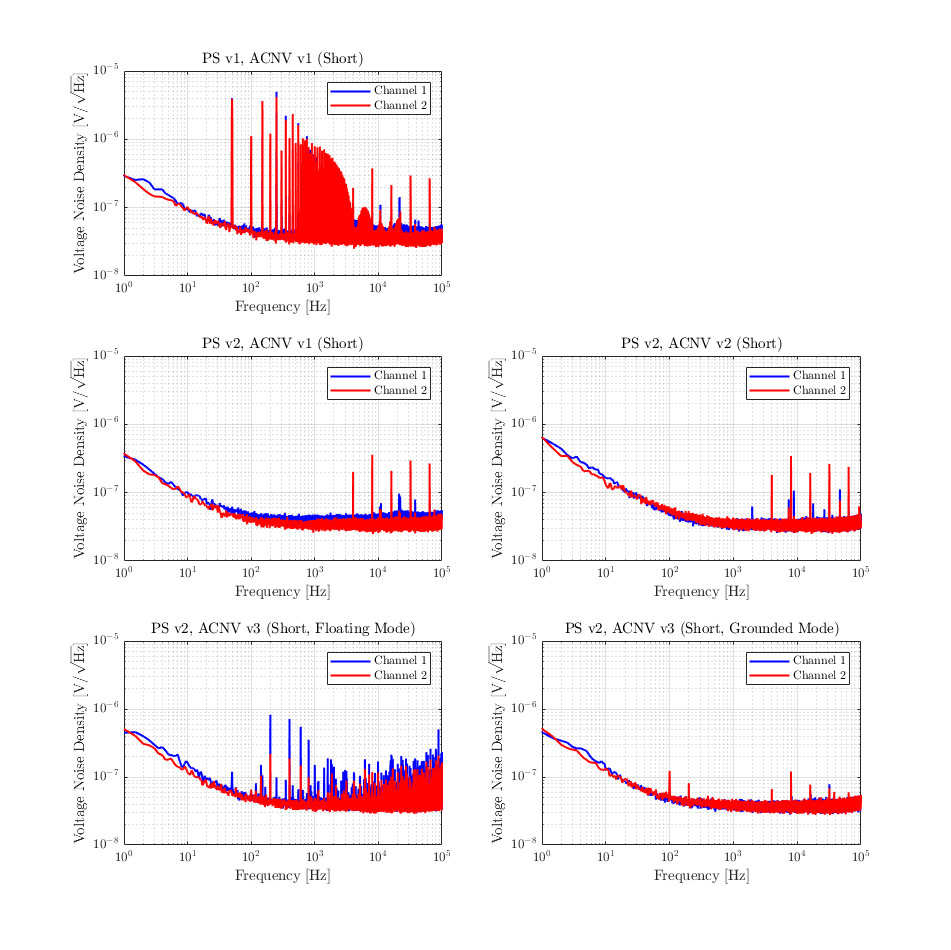
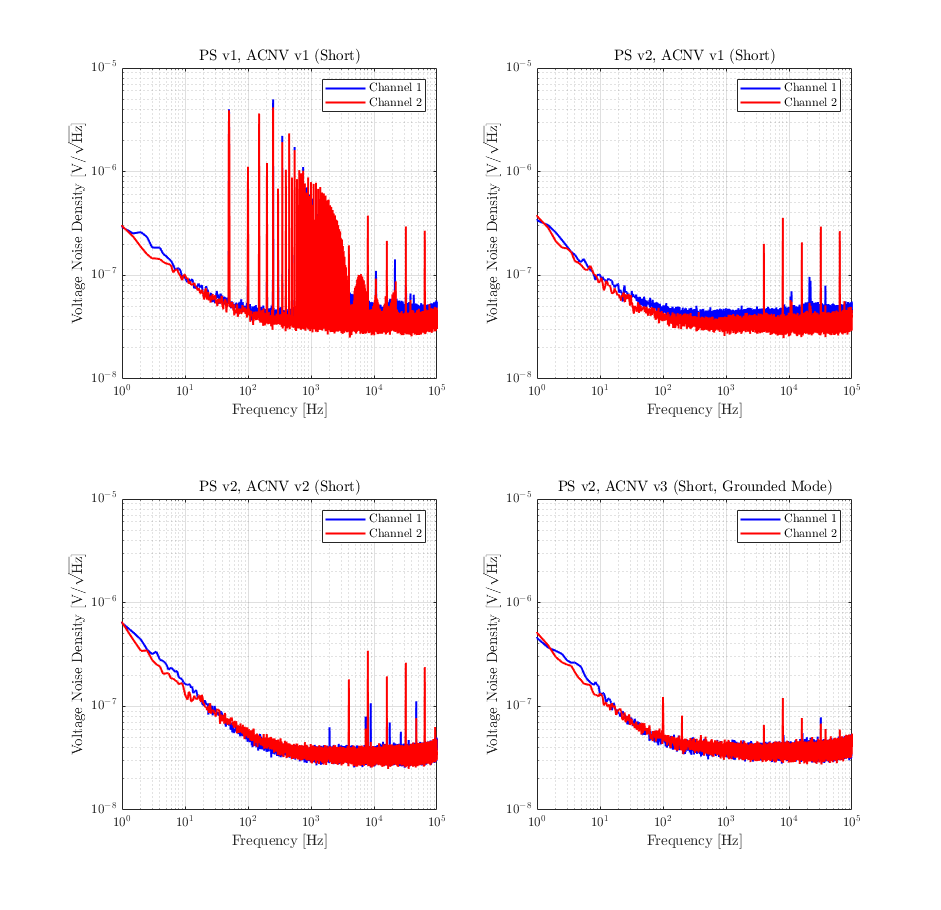
Updated noise measurements

diff --git a/README.md b/README.md
@@ -204,11 +204,11 @@ Tool for graphical display of status information and for controlling the hardwar
 
 Noise measurements were performed for several combinations of modules, where the abbreviations PS and ACNV in the titles refer to the power supply and analog conversion modules.
 
-The two linear power supply modules of version v1 both operate with transformers and rectifiers. This resulted in magnetic interference in the form of the mains frequency and multiples thereof.
+The two linear power supply modules of version v1 both operate with transformers. This resulted in magnetic interference in the form of the mains frequency and multiples thereof.
 
 The two power supply modules of version v2 both operate with AC/DC power modules (<a href="https://www.tracopower.com/de/deu/model/tmlm-20105">TMLM 20105</a>, <a href="https://www.tracopower.com/de/deu/model/tmlm-20115">TMLM 20115</a>) from Traco Power. Their switching frequencies are around 132 +/- 8 kHz and thus above the useful range of 0 - 100 kHz.
 
-The <a href="#AnalogConversion_v3">AnalogConversion_v3</a> module contains a relay for optionally connecting the front panel (chassis) to the analog ground (AGND) of the PCB (grounded mode). In floating mode significantly more interference occurs.
+The <a href="#AnalogConversion_v3">AnalogConversion_v3</a> module offers differential inputs. Interferences at higher frequencies could be decreased. However, in the low frequency regime additional spurs at 100 Hz and 200 Hz occur.
 
 <p align="center">
     <img src="https://github.com/yildi1337/DAQv3/blob/main/measurement_results/noise_evolution_short.png" />
